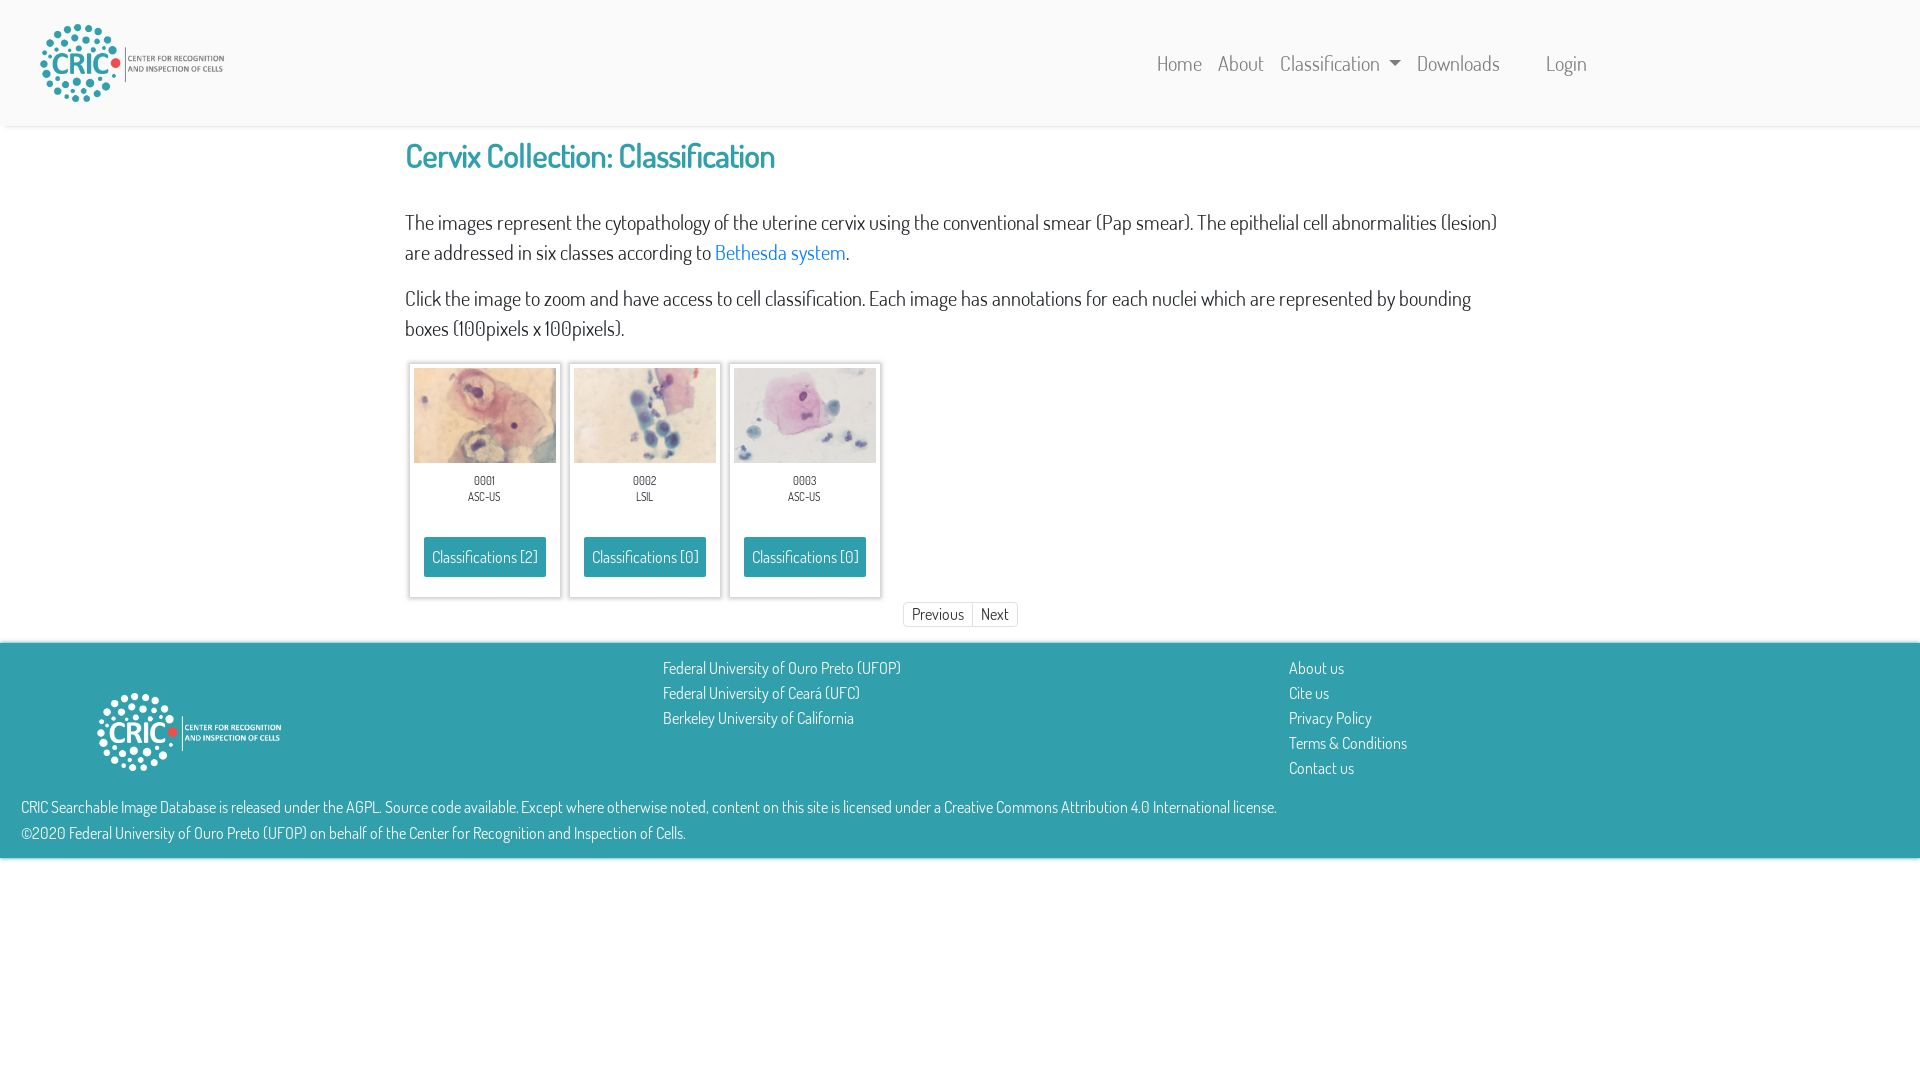
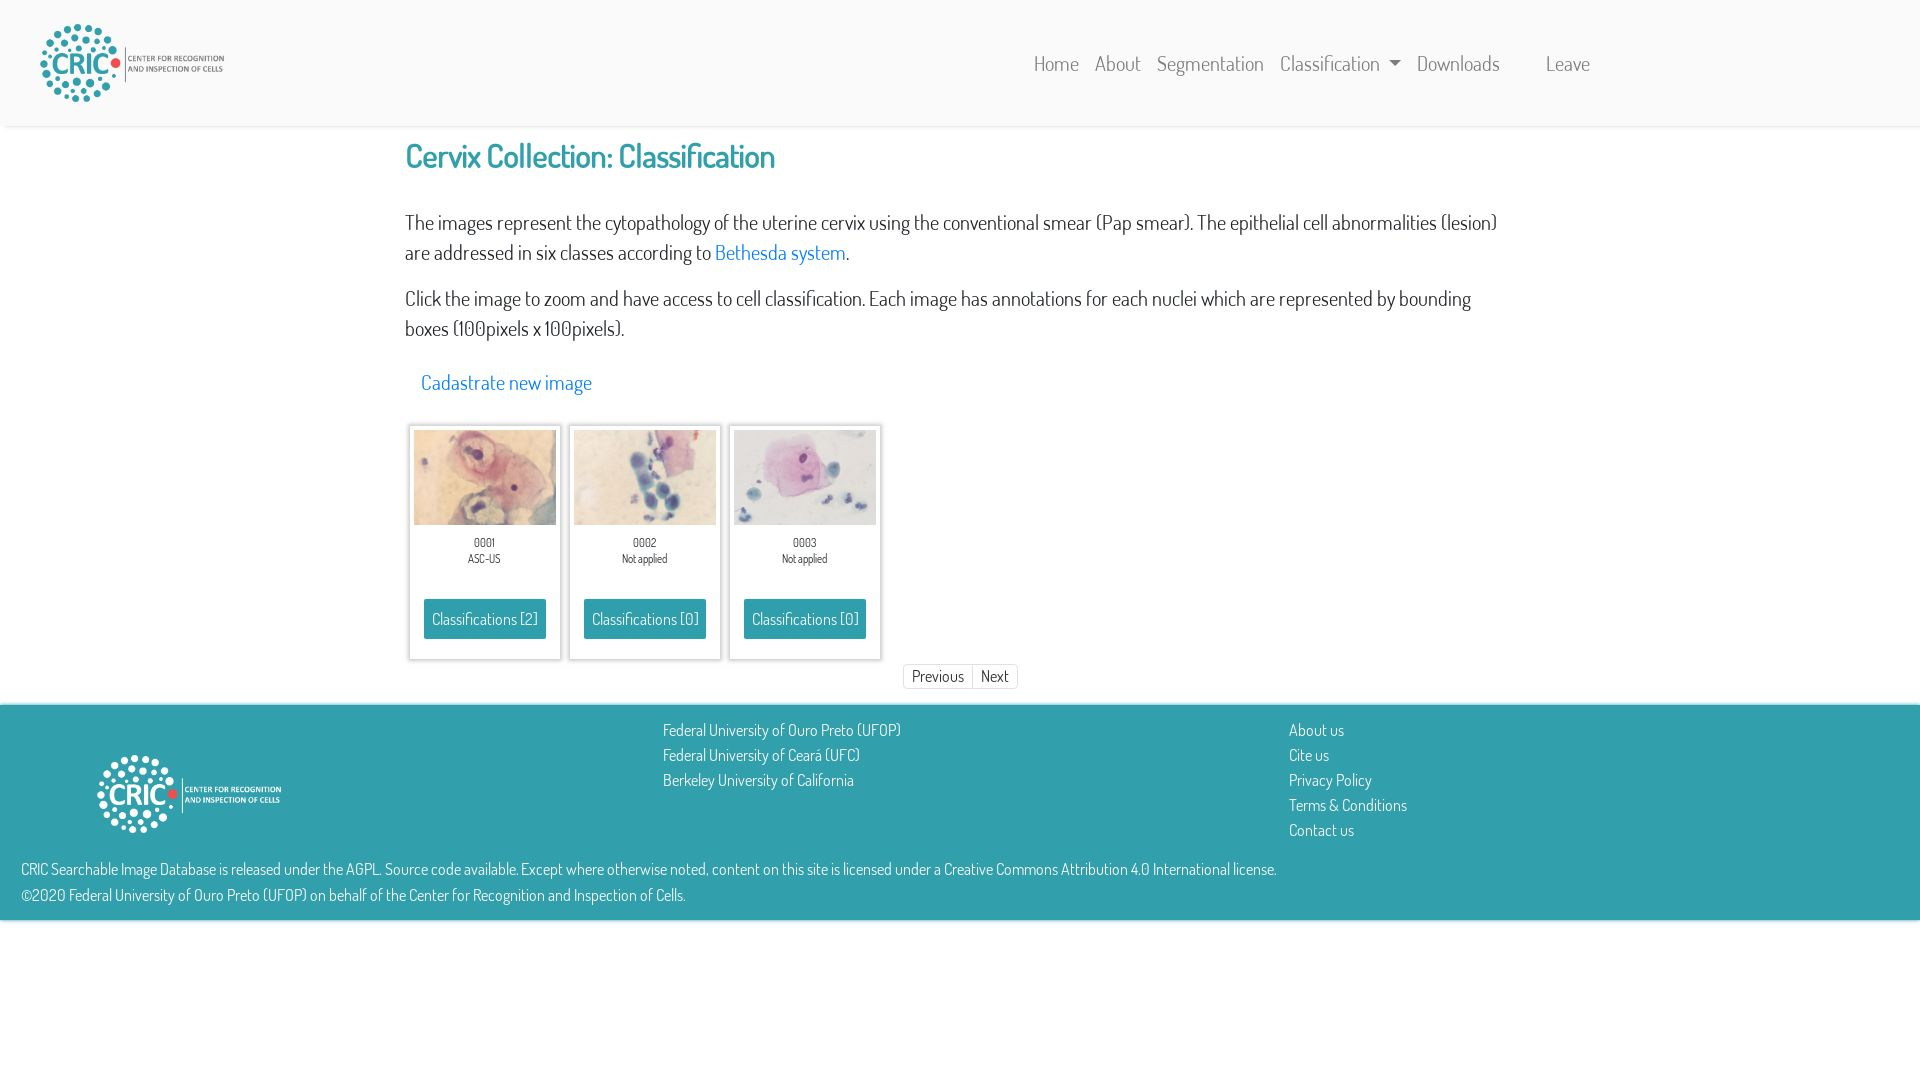
Add login to admin screenshots

Changed region(s): [[0.0, 0.3361, 1.0, 0.8556], [0.625, 0.0306, 0.6562, 0.0611]]

diff --git a/docs/screenshots/admin.py b/docs/screenshots/admin.py
@@ -22,7 +22,13 @@ async def main():
     )
 
     await asyncio.gather(
-        page.waitForSelector('input#email-login'),
+        page.waitFor(2_000),  # For modal to show
+        page.waitForSelector(
+            'input#email-login',
+            {
+                "visible": True
+            }
+        ),
         page.click(
             'a#login'
         ),
@@ -30,6 +36,19 @@ async def main():
     await screenshot(
         page,
         'admin-login.jpg'
+    )
+
+    # Perform login
+    await page.focus('input#email-login')
+    await page.keyboard.type('admin@test.database.cric.com.br')
+    await page.focus('input#senha-login')
+    await page.keyboard.type('123.456')
+    await page.keyboard.down('Enter')
+    await page.waitForSelector(
+        'a.sair',
+        {
+            "visible": True
+        }
     )
 
     await go4screenshot(
